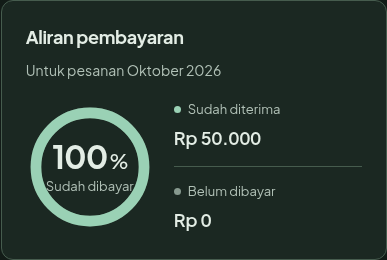
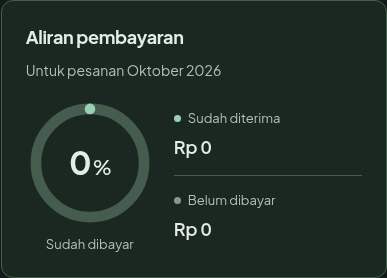
Place payment caption below donut for clearer spacing

diff --git a/src/app/globals.css b/src/app/globals.css
@@ -146,12 +146,13 @@ svg { flex-shrink: 0; }
 .payments-card { align-self: start; container-type: inline-size; }
 .payments-card .card-header { padding-bottom: 16px; }
 .payment-overview { display: grid; grid-template-columns: 128px minmax(0,1fr); align-items: center; gap: 20px; padding: 0 24px 24px; }
-.donut-wrap { position: relative; width: 128px; height: 128px; margin: 0; }
-.donut-wrap>svg { width: 100%; height: 100%; }
+.donut-wrap { width: 128px; margin: 0; text-align: center; }
+.donut-chart { position: relative; aspect-ratio: 1; }
+.donut-chart>svg { display: block; width: 100%; height: 100%; }
+.donut-caption { display: block; margin-top: 8px; font-size: 13px; line-height: 1.4; color: var(--muted); }
 .donut-label { position: absolute; inset: 0; display: flex; flex-direction: column; align-items: center; justify-content: center; gap: 4px; }
 .donut-label strong { font-size: 32px; line-height: 1.1; font-weight: 700; letter-spacing: -1px; }
 .donut-label small { font-size: 19px; margin-left: 2px; font-weight: 500; }
-.donut-label span { font-size: 13px; line-height: 1.3; color: var(--muted); }
 .payment-breakdown { display: flex; flex-direction: column; gap: 14px; min-width: 0; }
 .payment-breakdown>div { display: flex; flex-direction: column; align-items: flex-start; gap: 4px; }
 .payment-breakdown>div+div { padding-top: 14px; border-top: 1px solid var(--border); }
@@ -159,9 +160,8 @@ svg { flex-shrink: 0; }
 .payment-breakdown strong { font-size: 18px; font-weight: 600; font-variant-numeric: tabular-nums; overflow-wrap: anywhere; }
 @container (max-width: 340px) {
   .payment-overview { grid-template-columns: 104px minmax(0,1fr); gap: 16px; padding-inline: 18px; }
-  .donut-wrap { width: 104px; height: 104px; }
+  .donut-wrap { width: 104px; }
   .donut-label strong { font-size: 26px; }
-  .donut-label span { font-size: 11px; }
   .payment-breakdown strong { font-size: 16px; }
 }
 .text-action { display: inline-flex; align-items: center; justify-content: center; gap: 7px; min-height: 44px; border: 0; padding: 8px 0; background: transparent; color: var(--primary); font-size: 14px; font-weight: 600; text-decoration: none; }

diff --git a/src/components/tippo-app.tsx b/src/components/tippo-app.tsx
@@ -364,7 +364,7 @@ function MonthlyChart({ data, month, currentOnly = false }: { data: AppData; mon
 
 function PaymentDonut({ received, total }: { received: number; total: number }) {
   const percent = total > 0 ? Math.round(received / total * 100) : 0;
-  return <div className="donut-wrap"><svg viewBox="0 0 180 180" role="img" aria-label={`${percent}% tagihan telah dibayar`}><circle cx="90" cy="90" r="76" fill="none" stroke="var(--border)" strokeWidth="15" /><circle cx="90" cy="90" r="76" fill="none" stroke="var(--primary)" strokeWidth="15" strokeLinecap="round" strokeDasharray={`${percent / 100 * 477.52} 477.52`} transform="rotate(-90 90 90)" /></svg><div className="donut-label"><strong>{percent}<small>%</small></strong><span>Sudah dibayar</span></div></div>;
+  return <div className="donut-wrap"><div className="donut-chart"><svg viewBox="0 0 180 180" role="img" aria-label={`${percent}% tagihan telah dibayar`}><circle cx="90" cy="90" r="76" fill="none" stroke="var(--border)" strokeWidth="15" /><circle cx="90" cy="90" r="76" fill="none" stroke="var(--primary)" strokeWidth="15" strokeLinecap="round" strokeDasharray={`${percent / 100 * 477.52} 477.52`} transform="rotate(-90 90 90)" /></svg><div className="donut-label"><strong>{percent}<small>%</small></strong></div></div><span className="donut-caption">Sudah dibayar</span></div>;
 }
 
 function BatchCard({ batch, data, index, onOpen }: { batch: Batch; data: AppData; index: number; onOpen: () => void }) {

diff --git a/docs/DESIGN-VALIDATION.md b/docs/DESIGN-VALIDATION.md
@@ -655,3 +655,7 @@ Halaman Semua Pesanan dan tombol Lihat Tagihan di Ringkasan dihapus beserta stat
 Design Read: gunakan identitas hangat Tippo dengan ENERGY 2 / RHYTHM 2 / MOTION 1. Grafik persentase dan nominal berdampingan supaya kartu mengikuti isi, bukan tinggi grafik penjualan. Nominal dikelompokkan bersama label; garis pemisah membedakan uang diterima dan sisa tagihan. Tidak ada kontrol baru atau perubahan perhitungan.
 
 Agen utama meninjau ulang 50 item Delivery Gate yang tercatat di bagian Delivery Gate: PASS untuk perubahan ini. Bukti tambahan R-03/R-34/C-4: delapan pemeriksaan browser pada 320, 390, 768, 1440 piksel dalam tema terang/gelap lulus, tidak ada overflow halaman, tinggi kartu di bawah 300 piksel, nominal Rp 50.000 dan persentase 100% sesuai fixture Supabase terkontrol. Tidak ada data produksi yang diubah. R-35: lint dan production build lulus. R-31/C-1/ruang kosong: align-self start menghilangkan peregangan kartu, container query mempertahankan dua kolom di kartu sempit. Tidak ada aset, klaim, CTA, warna, animasi, navigasi atau logika transaksi baru; gate terkait memakai bukti yang sudah tercatat. Screenshot preview-payments-390-light.png dan preview-payments-1440-dark.png ditinjau langsung. Pemeriksaan browser memakai skrip sementara, bukan tambahan tes permanen untuk perubahan tata letak ini.
+
+## Caption pembayaran di luar donut
+
+Teks Sudah dibayar dipindah ke bawah lingkaran dengan jarak 8px, persentase tetap di tengah. Alasan: label tidak mendekati garis lingkaran pada kartu sempit. Agen utama meninjau ulang Delivery Gate 50 item: PASS dalam lingkup perubahan teks/layout ini; identitas, token warna, navigasi, kontrol dan perhitungan tetap sama. Lint dan build bersih lulus. Cache build lama menghasilkan stylesheet sebelum perubahan pada pemeriksaan awal; cache generated dihapus dan build diulang. Delapan pemeriksaan 320/390/768/1440 dalam terang/gelap kemudian lulus: caption memiliki jarak minimal 7px dari kotak grafik dan tidak ada overflow halaman. Screenshot terang 390 dan gelap 1440 ditinjau langsung. Saran daftar Tagihan belum lunas belum diimplementasikan karena pengguna sedang meminta ide untuk area kosong.
